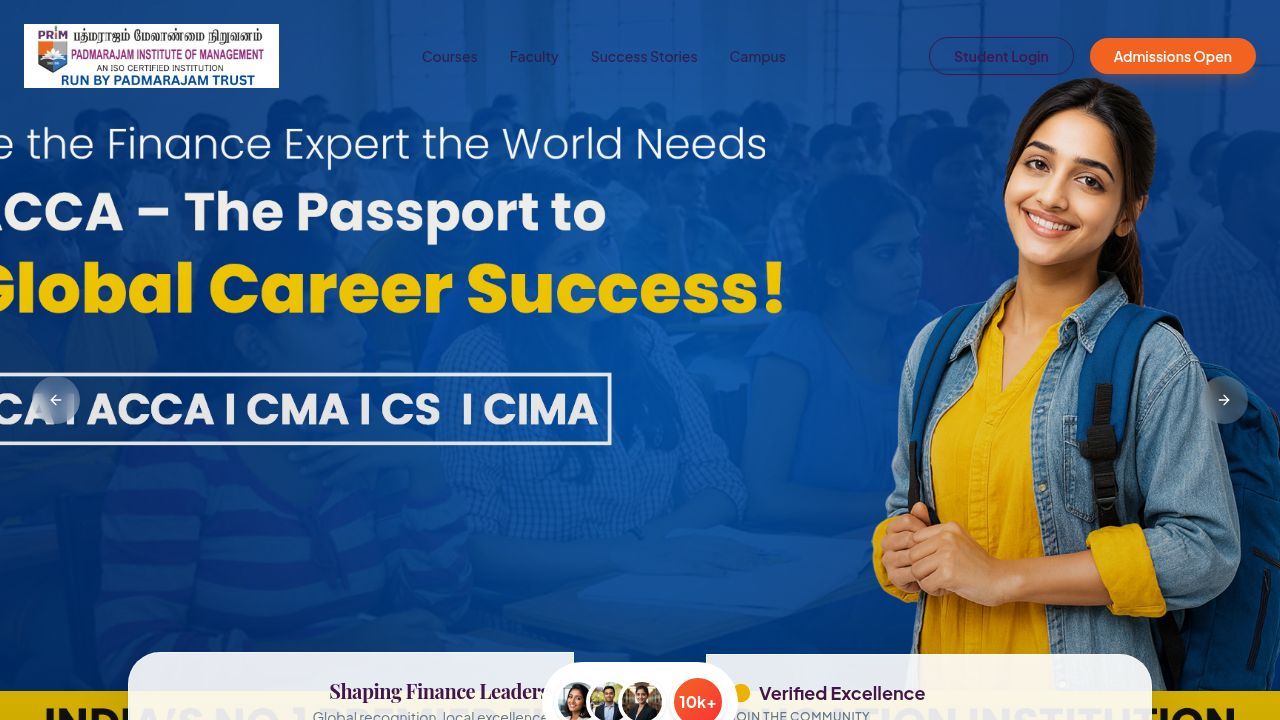
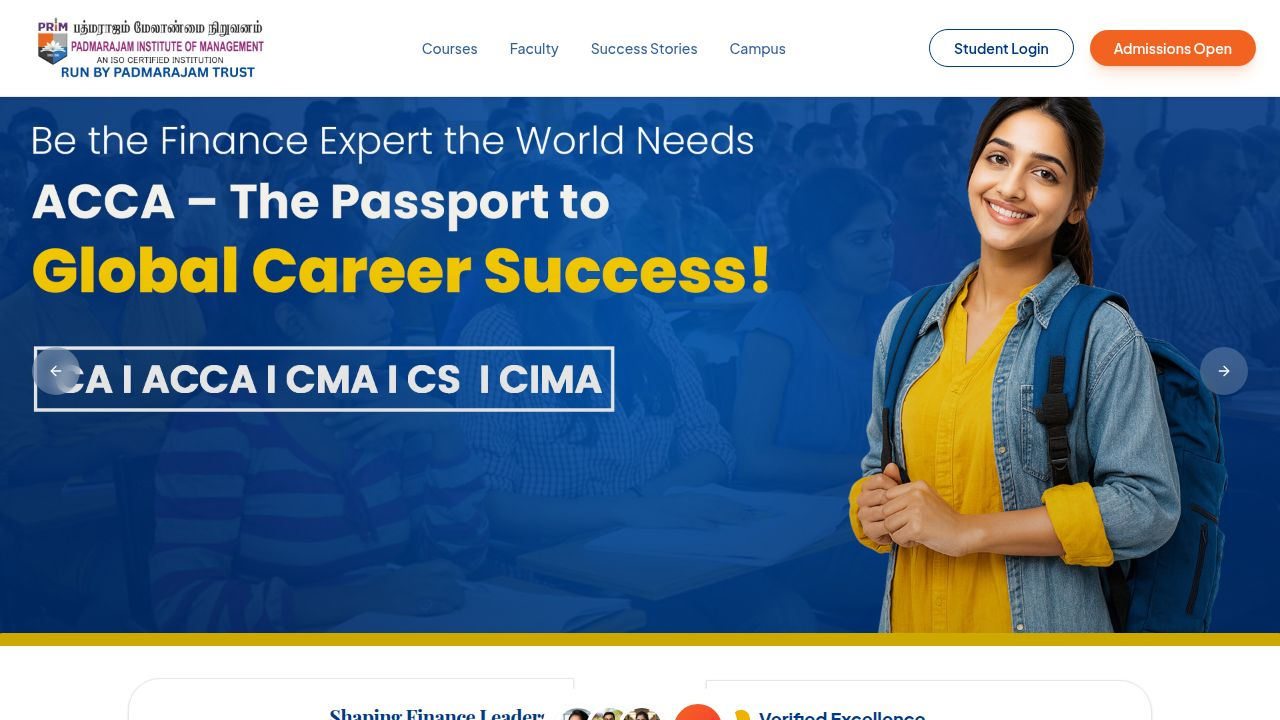
Adjust hero section to fit desktop screens better
Update hero section aspect ratio to 21:9 and cap max-height at 80% viewport on desktop.

Replit-Commit-Author: Agent
Replit-Commit-Session-Id: 4f18d4d7-0894-4c79-a98b-8281e147cf88
Replit-Commit-Checkpoint-Type: full_checkpoint
Replit-Commit-Event-Id: 5a9f9103-326e-427c-bd3c-abac2a880594
Replit-Commit-Screenshot-Url: https://storage.googleapis.com/screenshot-production-us-central1/7f9f68ac-3566-407f-a183-0915c8b5b3d0/4f18d4d7-0894-4c79-a98b-8281e147cf88/YKIiZR7
Replit-Helium-Checkpoint-Created: true

diff --git a/client/src/components/home/Hero.tsx b/client/src/components/home/Hero.tsx
@@ -45,7 +45,7 @@ export function Hero() {
         <CarouselContent className="-ml-0">
           {slides.map((slide) => (
             <CarouselItem key={slide.id} className="pl-0">
-              <div className="relative w-full aspect-[9/16] md:aspect-[16/9]">
+              <div className="relative w-full aspect-[9/16] md:aspect-[21/9] md:max-h-[80vh]">
                 <picture>
                   <source media="(max-width: 767px)" srcSet={slide.mobile} />
                   <source media="(min-width: 768px)" srcSet={slide.desktop} />
